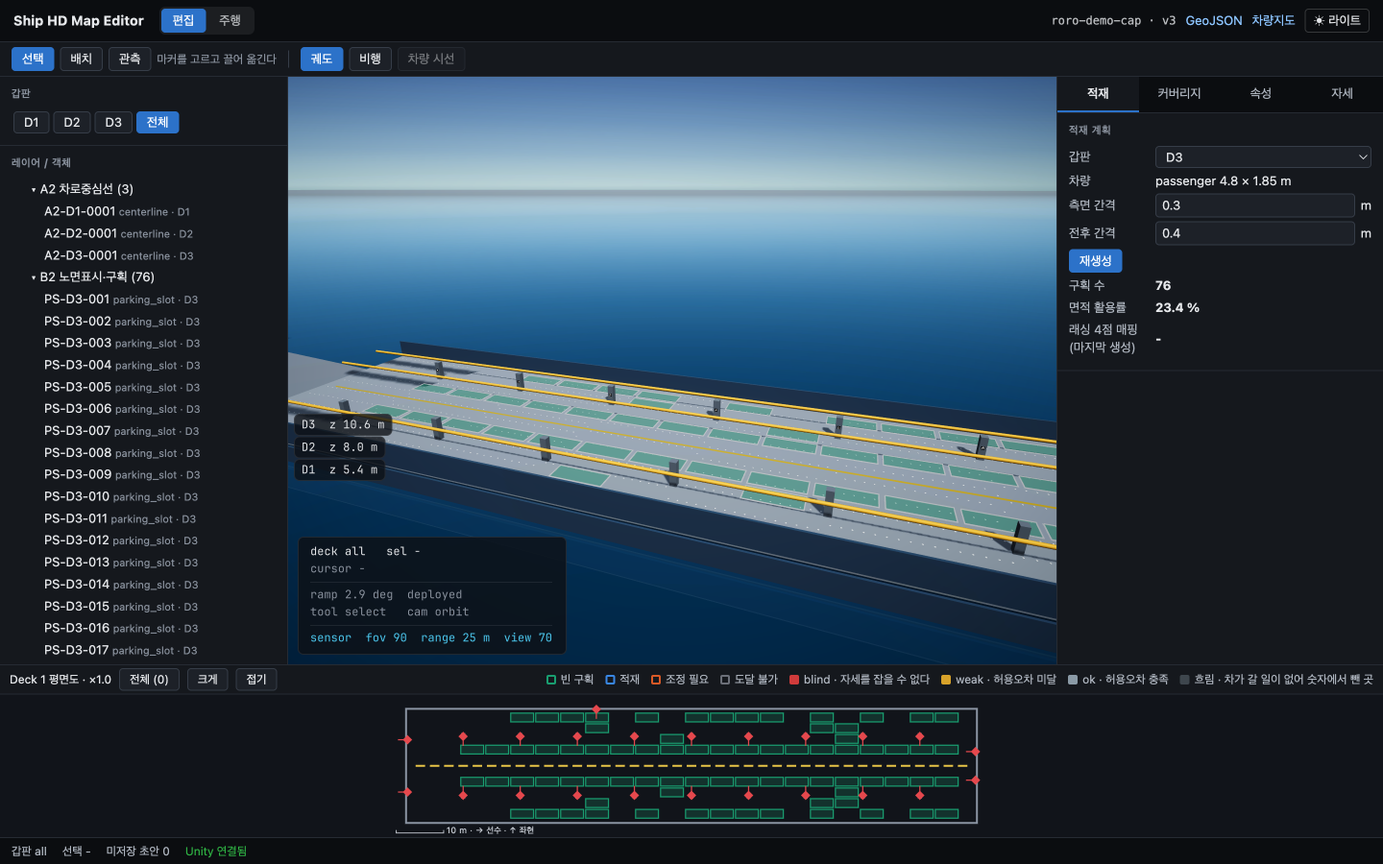
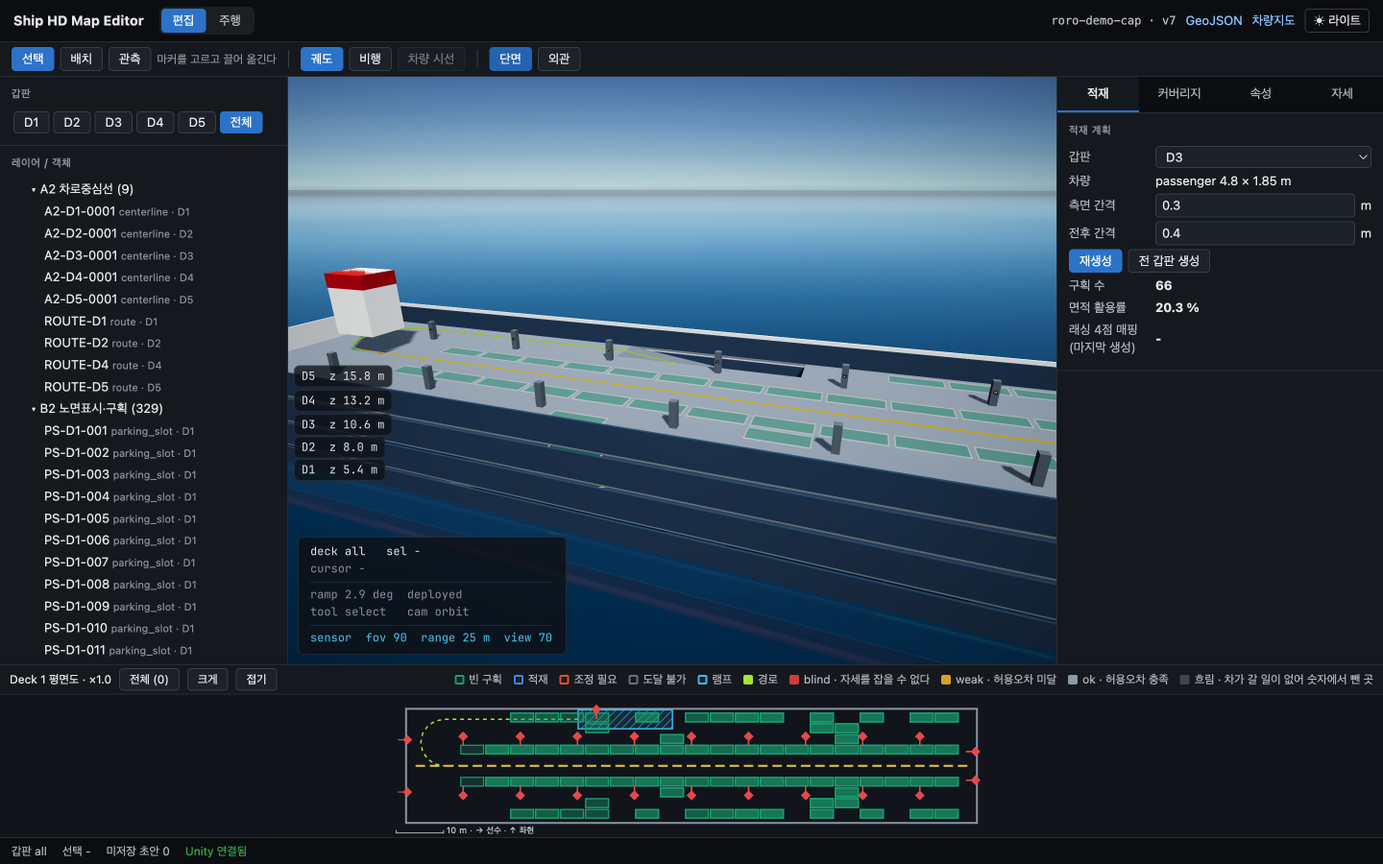
M8f: every deck in the captures and the docs, and the ramps the web shows are the scene's
- The scene announces each internal ramp's state after every Load, so the
  panel and plan view no longer show a ramp down under a parked car.
- Regenerating one deck keeps the other decks' slot statuses in the web.
- onScenario gains route and lane events; the capture pins chapter 5b and 6
  to them and generates slots on all five decks.
- README, walkthrough, API contract, glossary, design rationale and QGIS check
  updated for five decks, internal ramps, routes and 329 slots; M8 spec added.

diff --git a/web/src/store/editor.ts b/web/src/store/editor.ts
@@ -196,8 +196,9 @@ export const useEditorStore = create<EditorState>()(persist((set, get) => ({
   async generateSlots(deck, body) {
     const out = await api.generateSlots(get().datasetId, deck, body);
     const list = await api.listFeatures(get().datasetId);
-    // regenerated slots start empty; drop every status of the old ones
-    set((s) => ({ features: Object.fromEntries(list.map((f) => [f.id, f])), slotStatus: {}, slotGen: { ...s.slotGen, [deck]: { count: out.count, utilization: out.utilization, lashing_coverage: out.lashing_coverage } },
+    // regenerated slots start empty; drop the statuses of this deck's old ones -- the other decks keep theirs
+    set((s) => ({ features: Object.fromEntries(list.map((f) => [f.id, f])),
+      slotStatus: Object.fromEntries(Object.entries(s.slotStatus).filter(([id]) => s.features[id]?.deck_id !== deck)), slotGen: { ...s.slotGen, [deck]: { count: out.count, utilization: out.utilization, lashing_coverage: out.lashing_coverage } },
       selectedId: s.selectedId && !list.some((f) => f.id === s.selectedId) ? null : s.selectedId }));
     get().bumpVersion(out.version);
     return out;
@@ -332,6 +333,8 @@ export function scenarioLine(e: ScenarioEvt): string {
     case "target": return `대상 ${e.slot_id}`;
     case "leave_lane": return `차로 이탈 · ${e.detail ?? ""}`;
     case "frame_switch": return `프레임 전환 · ${e.detail ?? ""}`;
+    case "route": return `경로 · ${e.detail ?? ""}`;
+    case "lane": return `차로 진입 · ${e.detail ?? ""}`;
     case "ramp": { const r = rampEvent(e); return r ? `램프 ${r.id} ${r.state === "stowed" ? "수납" : "전개"}` : `램프 ${e.detail ?? ""}`; }
     case "finished": return `종료 (${e.detail ?? ""})`;
     default: return e.event;

diff --git a/web/src/store/editor.test.ts b/web/src/store/editor.test.ts
@@ -110,6 +110,9 @@ describe("editor store", () => {
 
   it("generateSlots refreshes features, version and KPI", async () => {
     await useEditorStore.getState().load("ds1");
+    useEditorStore.setState({ slotStatus: { "PS-D3-001": "filled", "PS-D1-001": "filled" }, features: {
+      "PS-D3-001": { id: "PS-D3-001", deck_id: "D3", layer: "B2", kind: "parking_slot", geometry: { type: "Point", coordinates: [0, 0] }, props: {} },
+      "PS-D1-001": { id: "PS-D1-001", deck_id: "D1", layer: "B2", kind: "parking_slot", geometry: { type: "Point", coordinates: [0, 0] }, props: {} } } });
     vi.mocked(api.listFeatures).mockResolvedValueOnce([{ id: "PS-D3-001", deck_id: "D3", layer: "B2", kind: "parking_slot", geometry: { type: "Polygon", coordinates: [[[100, 2, 10.6], [104.8, 2, 10.6], [104.8, 3.85, 10.6], [100, 3.85, 10.6], [100, 2, 10.6]]] }, props: {} }]);
     const out = await useEditorStore.getState().generateSlots("D3", { gap_lat_m: 0.3 });
     expect(api.generateSlots).toHaveBeenCalledWith("ds1", "D3", { gap_lat_m: 0.3 });
@@ -117,6 +120,7 @@ describe("editor store", () => {
     expect(useEditorStore.getState().dataset?.version).toBe(9);
     expect(useEditorStore.getState().slotGen.D3.lashing_coverage).toBe(1);
     expect(Object.keys(useEditorStore.getState().features)).toEqual(["PS-D3-001"]);
+    expect(useEditorStore.getState().slotStatus).toEqual({ "PS-D1-001": "filled" });   // only D3 was regenerated
   });
 
   /// 완료 기준 1. 검증할 때마다 슬라이더를 다시 맞추던 것이 이 마일스톤에서 없어진다.

diff --git a/web/src/api/types.ts b/web/src/api/types.ts
@@ -16,7 +16,7 @@ export type SlotStatus = "empty" | "filled" | "needs_adjust" | "unreachable";
 /** Unity -> React: parking judgement (load) or an emptied slot (unload: status "empty", no errors). */
 export type SlotFilledEvt = { slot_id: string; status: SlotStatus; err_lat?: number; err_lon?: number; err_heading?: number };
 /** `ramp` (M8): an internal ramp changed state; detail is "<ramp id> deployed|stowed". */
-export type ScenarioEvt = { event: "start" | "target" | "leave_lane" | "frame_switch" | "ramp" | "finished"; mode?: "load" | "unload"; slot_id?: string; detail?: string };
+export type ScenarioEvt = { event: "start" | "target" | "leave_lane" | "frame_switch" | "route" | "lane" | "ramp" | "finished"; mode?: "load" | "unload"; slot_id?: string; detail?: string };
 /** M8: a hoistable ramp between two decks. hinge = its upper end, toe = its lower end (each two points across its width). */
 export type InnerRamp = { id: string; lower_deck: string; upper_deck: string; hinge: number[][]; toe: number[][] };
 /** M8: from the stern-ramp deck's entrance to deck_id's lane start, over the listed internal ramps. */

diff --git a/unity/Assets/ShipHdMap/Runtime/Bridge/MapRuntime.cs b/unity/Assets/ShipHdMap/Runtime/Bridge/MapRuntime.cs
@@ -209,13 +209,13 @@ namespace ShipHdMap
         }
 
         /// After a Load: every internal ramp down, except one with a car parked on its near-deck ground -- that ramp can
-        /// only be up (the car is standing on it).
+        /// only be up (the car is standing on it). Each state is announced: the web's panel and plan view mirror them.
         void ResetRampStates()
         {
             _rampState.Clear();
             var slots = CurrentMap?.parking_slots ?? new List<ParkingSlot>();
             foreach (var r in RampPlanner.Internal(CurrentMap))
-                SetRamp(r.id, RampPlanner.CanDeploy(CurrentMap, r, slots) ? RampPlanner.Deployed : RampPlanner.Stowed, emit: false);
+                SetRamp(r.id, RampPlanner.CanDeploy(CurrentMap, r, slots) ? RampPlanner.Deployed : RampPlanner.Stowed, emit: true);
         }
 
         void SetRamp(string id, string state, bool emit)
@@ -698,6 +698,7 @@ namespace ShipHdMap
                     Vehicle.StartLane(_targetLane);
                     Belief.Reset(); _lastS = Vehicle.s;
                     ScenarioPhase = Phase.OnLane;
+                    Send(BridgeMessages.OnScenario, MapJson.Serialize(new ScenarioEvt { evt = "lane", slot_id = _target.id, detail = _targetDeck.id }));
                     break;
                 case Phase.OnLane when Vehicle.s >= _exitS || Vehicle.AtEnd:
                 {
@@ -776,6 +777,7 @@ namespace ShipHdMap
             Vehicle.StartPath(path, _targetLane != null && _targetLane.speed_limit_kmh > 0 ? _targetLane.speed_limit_kmh / 3.6 : ScenarioPlanner.ParkSpeedMps);
             Belief.Reset(); _lastS = Vehicle.s;
             ScenarioPhase = phase;
+            Send(BridgeMessages.OnScenario, MapJson.Serialize(new ScenarioEvt { evt = "route", slot_id = _target?.id, detail = _targetRoute?.id + (phase == Phase.ReturnRoute ? " back" : "") }));
         }
 
         static LandmarkRef RefOf(Landmark lm) => new LandmarkRef { id = lm.id, mx = lm.position[0], my = lm.position[1], phiRad = Math.Atan2(lm.normal[1], lm.normal[0]) };

diff --git a/unity/Assets/ShipHdMap/Tests/EditMode/RampScenarioTests.cs b/unity/Assets/ShipHdMap/Tests/EditMode/RampScenarioTests.cs
@@ -95,6 +95,9 @@ namespace ShipHdMap.Tests
             Assert.That(phases, Is.SupersetOf(new[] { MapRuntime.Phase.OnQuay, MapRuntime.Phase.OnRamp, MapRuntime.Phase.OnRoute, MapRuntime.Phase.OnLane, MapRuntime.Phase.Parking }));
             Assert.That(phases.IndexOf(MapRuntime.Phase.OnRoute), Is.LessThan(phases.IndexOf(MapRuntime.Phase.OnLane)));
             Assert.That(worst, Is.LessThan(0.6f), "no teleport between the route, the lane and the approach");
+            var events = emitted.Where(e => e.name == "onScenario").Select(e => MapJson.Parse<ScenarioEvt>(e.json)).ToList();
+            int route = events.FindIndex(e => e.evt == "route" && e.detail == "ROUTE-D1"), lane = events.FindIndex(e => e.evt == "lane" && e.detail == "D1");
+            Assert.That(route, Is.GreaterThanOrEqualTo(0)); Assert.That(lane, Is.GreaterThan(route), "on the route, then on D1's lane");
             Assert.That(rt.transform.Find("Overlay/D1/PARKED-PS-D1-001"), Is.Not.Null);
         }
 
@@ -125,6 +128,8 @@ namespace ShipHdMap.Tests
             var rt = Run(m);
             // a car stands on RAMP-D3-D2's ground, so after the Load that ramp can only be up
             Assert.That(rt.RampStates["RAMP-D3-D2"], Is.EqualTo(RampPlanner.Stowed));
+            Assert.That(RampEvents(), Is.EquivalentTo(new[] { "RAMP-D3-D2 stowed", "RAMP-D2-D1 deployed", "RAMP-D3-D4 deployed", "RAMP-D4-D5 deployed" }),
+                "the Load announces every ramp, or the web keeps showing this one down under the parked car");
             rt.StartScenario("{\"mode\":\"unload\"}");
             Assert.That(rt.TargetSlotId, Is.EqualTo("PS-D3-090"), "last in, first out");
             RunUntil(rt, emitted, "onScenario", j => j.Contains("\"target\"") && j.Contains("PS-D5-001"));

diff --git a/unity/Assets/ShipHdMap/Runtime/Bridge/BridgeMessages.cs b/unity/Assets/ShipHdMap/Runtime/Bridge/BridgeMessages.cs
@@ -32,8 +32,10 @@ namespace ShipHdMap
     public class SetTimeScaleMsg { public double scale = 1; }
     /// Parking result (load) or an emptied slot (unload: status "empty", no errors — nulls are dropped from the JSON).
     public class SlotFilledEvt { public string slot_id; public string status; public double? err_lat, err_lon, err_heading; }
-    /// Scenario log line. `event`: start | target | frame_switch | leave_lane | ramp | finished.
+    /// Scenario log line. `event`: start | target | frame_switch | route | lane | leave_lane | ramp | finished.
     /// `ramp` (M8) fires whenever an internal ramp changes state; its `detail` is "<ramp id> deployed|stowed".
+    /// `route` (M8): a car starts along the route to another deck (detail: route id, "+ back" when unloading);
+    /// `lane` (M8): it joins its target deck's lane (detail: deck id) -- the handover a figure can be pinned to.
     /// `frame_switch` fires when the entrance landmark pair is seen and the vehicle leaves the Quay Frame for the
     /// Ship Frame; its `detail` carries the estimate at that instant. `finished`'s `detail` is one of
     /// no_empty_slot | no_filled_slot | ramp_blocked | no_frame_switch.

diff --git a/docs/api-contract.md b/docs/api-contract.md
@@ -15,16 +15,16 @@
 - `POST /datasets/{id}/features` `{id?, deck_id?, layer, kind, geometry, props?}` → 201 피처(id 생략 시 `{layer}-{n:0000}`)
 - `PUT /datasets/{id}/features/{fid}` 부분 갱신(보낸 필드만; `layer` 변경 불가) → 200 피처
 - `DELETE /datasets/{id}/features/{fid}` → 204 · 404 · 409(구획이 참조하는 래싱)
-- `POST /datasets/{id}/decks/{deck}/slots/generate` `{vehicle_class?, gap_lat_m?, gap_lon_m?, lashing_pitch_m?}`(기본 passenger, 0.30, 0.40, 0.75) → `{deck, count, utilization, lashing_coverage, version, slots[]}`. 해당 갑판의 기존 구획을 전부 교체합니다. 진입 경로(이탈점 → 45° 사선 → 5 m 직진)가 장애물에 막히거나 이탈점이 차로 밖으로 나가는 셀은 구획이 되지 않습니다. · 404 갑판 없음 · 400 알 수 없는 차량 등급
+- `POST /datasets/{id}/decks/{deck}/slots/generate` `{vehicle_class?, gap_lat_m?, gap_lon_m?, lashing_pitch_m?}`(기본 passenger, 0.30, 0.40, 0.75) → `{deck, count, utilization, lashing_coverage, rank, version, slots[]}`. 해당 갑판의 기존 구획을 전부 교체합니다. 진입 경로(이탈점 → 45° 사선 → 5 m 직진)가 장애물에 막히거나 이탈점이 차로 밖으로 나가는 셀은 구획이 되지 않습니다. 다른 갑판으로 가는 **경로가 이 갑판 위를 지나는 구간**과 **내부 램프의 먼 쪽 자리**(아래로 가는 램프의 착지, 위로 가는 램프가 들어가는 개구부)에도 구획을 두지 않습니다. `sequence_no`는 `rank × 1000 + 갑판 내 순번`이며, `rank`는 선미 램프 갑판에서 먼 순(같은 거리면 아래층 먼저, D3 기준 D1·D5·D2·D4·D3 = 0~4)입니다. 차량지도의 구획 순서가 곧 먼 갑판부터의 적재 순서가 됩니다. · 404 갑판 없음 · 400 알 수 없는 차량 등급
 - `PUT /datasets/{id}/slots/{sid}/status` `{status: empty|filled|needs_adjust|unreachable}` → `{id, status}`. `needs_adjust`는 주차했지만 비뚤어진 상태이고, `unreachable`은 도달하지 못한 상태입니다.
 - `POST /api/datasets/{ds}/decks/{deck}/coverage` — 갑판 격자의 달성 가능 추정 정밀도입니다. 본문 전체가 선택 사항입니다: `mode`(`load`|`unload`, 기본 `load`), `grid_m`(기본 1.0, (0,10]), `fov_deg`·`max_dist_m`·`max_view_angle_deg`·`sigma_r`·`sigma_theta`·`sigma_alpha`(기본은 Unity `LandmarkSensor`의 필드 기본값과 같은 값이고, 각도는 도입니다. **등식을 유지하는 것은 실행 중의 `SetSensor` 브리지 메시지입니다.** 웹이 이 세 값을 API와 Unity 양쪽에 같은 이름으로 보내므로, 기본값 세 벌이 어긋나 있어도 화면에서 사용하는 값은 웹이 보낸 하나뿐입니다. 첫 `Load` 전까지만 Unity의 기본값을 사용합니다), `extra_landmarks[{x,y,phi_deg}]`, `omit[id]`. 응답은 `cells[{x,y,n,sigma_xy,sigma_psi,stability,in_scope}]`입니다. `n=0`이면 σ를 생략하고, `in_scope`는 false일 때만 포함합니다. `n_cells`는 **구획 ∪ 차로 회랑** 셀 수이자 `blind_ratio`·`weak_ratio`의 분모이고, `n_drawn`은 `cells` 길이(갑판 전체)입니다. `worst`·`other_mode`를 함께 반환합니다. **읽기 전용이며 DB를 바꾸지 않습니다.**
 - `POST /api/datasets/{ds}/decks/{deck}/coverage/suggest` — 다음에 놓을 마커 위치입니다. 위 파라미터에 `budget`(기본 3, 최대 10)을 추가합니다. **`grid_m`은 무시하고 2.0으로 고정하며, 응답에 실제 사용한 값을 포함합니다.** 응답은 `before`·`after`·`suggestions[{rank,x,y,phi_deg,mounted_on,blind_after,weak_after,gain}]`입니다. 순위는 누적 방식이며, 2순위는 1순위를 놓은 상태에서 계산합니다. `gain`은 해당 순위에서 줄어든 `blind_ratio`입니다.
-- `GET /datasets/{id}/vehicle-map` → 스펙 §6 JSON, `ETag`
+- `GET /datasets/{id}/vehicle-map` → 스펙 §6 JSON, `ETag`. M8 확장: `ramps[]`의 `type`은 `stern_quarter`(부두↔선박) 또는 `internal_hoistable`(갑판↔갑판)이며, 내부 램프는 `lower_deck`·`upper_deck`·`toe`(아랫끝 두 점)를 더 가집니다. `hinge`는 내부 램프의 윗끝입니다. `routes[{id, deck_id, ramps[], path[][]}]`는 선미 램프 갑판의 입구에서 `deck_id` 차로 시작점까지의 3D 경로이며, 지나는 내부 램프를 순서대로 담습니다. **램프는 id 순으로 나오므로 선미 램프를 `ramps[0]`으로 가정하면 안 됩니다.** DB 에서 경로는 `feature` layer `A2`, kind `route`로 저장합니다.
 - `GET /datasets/{id}/export.geojson` → WGS84 FeatureCollection (`application/geo+json`)
 - `GET|PUT /datasets/{id}/pose` → pose + `trim_deg`. PUT 은 부분 갱신, `measured_at` 은 요청값으로 교체
-- `GET /datasets/{id}/ramps/{rid}` → 램프 props + `hinge`, `angle_deg`, `state(deployed|blocked)`
+- `GET /datasets/{id}/ramps/{rid}` → 램프 props + `hinge`, `angle_deg`, `state(deployed|blocked)`. 부두와의 각도 계산은 선미 램프에만 의미가 있습니다. 내부 램프의 전개/수납 상태는 씬이 소유하고 `onScenario` `ramp` 이벤트로 알립니다.
 
 ## 브리지 (React ↔ Unity, 스펙 §10)
 
-- R→U `sendMessage("Map", name, json)`: `Load`, `SetMode("edit"|"drive")`(edit 는 시나리오 중단·차량 숨김·배율 1), `SetDeck("D3"|"all")`, `Select(id)`(씬 하이라이트만; 에코 없음; 빈 문자열이면 해제), `Confirm({tempId,id})`, `Delete(id)`, `SetNoise({sigma_r,sigma_theta,sigma_alpha,sigma_gps})`, `SetPose({draft_fwd_m,draft_aft_m,heel_deg,lpp_m,ramp?:{id,angle_deg,state}})`(Map 루트 회전 + 램프 각도; 각도는 API 가 계산), `StartScenario({mode:"load"|"unload"})`(맵은 `Load` 된 것; 연속 적재/하역), `SetTimeScale({scale})`
-- U→R 이벤트(`addEventListener(name, (json) => …)`): `onSeedReady`, `onFeatureCreated{tempId,layer,x,y,z,deck,mounted_on,normal}`, `onFeatureMoved{id,x,y,z,normal,deck,mounted_on}`, `onSelected{id}`, `onLocalization{est_x,est_y,est_psi,true_x,true_y,true_psi,residual_rms,n_obs,frame}`, `onSlotFilled{slot_id,status,err_lat?,err_lon?,err_heading?}`(하역 완료는 `status:"empty"`, 오차 없음; 웹이 `PUT /slots/{sid}/status`), `onScenario{event:start|target|leave_lane|finished,mode?,slot_id?,detail?}`
+- R→U `sendMessage("Map", name, json)`: `Load`, `SetMode("edit"|"drive")`(edit 는 시나리오 중단·차량 숨김·배율 1), `SetDeck("D3"|"all")`, `Select(id)`(씬 하이라이트만; 에코 없음; 빈 문자열이면 해제), `Confirm({tempId,id})`, `Delete(id)`, `SetNoise({sigma_r,sigma_theta,sigma_alpha,sigma_gps})`, `SetPose({draft_fwd_m,draft_aft_m,heel_deg,lpp_m,ramp?:{id,angle_deg,state}})`(Map 루트 회전 + 램프 각도; 각도는 API 가 계산), `StartScenario({mode:"load"|"unload"})`(맵은 `Load` 된 것; 연속 적재/하역), `SetTimeScale({scale})`, `SetPrediction({deck_id?, grid_m, bbox, cells})`(갑판마다 한 번; 주행 차량은 목표 갑판의 약속과 비교), `SetRampState({id, state: deployed|stowed})`(주행 중이 아닐 때만; 주차된 차 위로는 내리지 않음; 응답은 실제 상태의 `ramp` 이벤트), `SetShellMode({mode: cutaway|full})`
+- U→R 이벤트(`addEventListener(name, (json) => …)`): `onSeedReady`, `onFeatureCreated{tempId,layer,x,y,z,deck,mounted_on,normal}`, `onFeatureMoved{id,x,y,z,normal,deck,mounted_on}`, `onSelected{id}`, `onLocalization{est_x,est_y,est_psi,true_x,true_y,true_psi,residual_rms,n_obs,frame}`, `onSlotFilled{slot_id,status,err_lat?,err_lon?,err_heading?}`(하역 완료는 `status:"empty"`, 오차 없음; 웹이 `PUT /slots/{sid}/status`), `onScenario{event:start|target|frame_switch|route|lane|leave_lane|ramp|finished,mode?,slot_id?,detail?}`(`route`: 다른 갑판으로 가는 경로 시작, detail 경로 id·하역이면 `back`; `lane`: 목표 갑판 차로 진입, detail 갑판 id; `ramp`: detail `"<램프 id> deployed|stowed"`, Load 직후에도 램프마다 한 번씩)

diff --git a/docs/glossary.md b/docs/glossary.md
@@ -90,6 +90,8 @@ Unity 엔진 좌표는 다릅니다(x 전방, y 위, z 우현). 변환은 `ToUni
 | `A2-0007` | 레이어 코드 | 7 번 차로중심선 |
 | `D3` | **D**eck 3 | 3 번 갑판 |
 | `RAMP-STERN` | — | 선미 램프 |
+| `RAMP-D3-D2` | — | D3 와 D2 를 잇는 내부 램프 (선미 램프 갑판에 가까운 쪽 먼저, 먼 쪽 나중) |
+| `ROUTE-D1` | — | D3 입구에서 D1 주 차로 시작점까지 가는 경로 |
 | `PARKED-*` | — | 이미 주차된 차를 나타내는 박스 |
 
 ## 6. 센서·위치 추정
@@ -154,7 +156,15 @@ Unity 엔진 좌표는 다릅니다(x 전방, y 위, z 우현). 변환은 `ToUni
 
 `utilization`(이용률)은 구획 넓이 합 ÷ 갑판 넓이입니다. `lashing_coverage`(래싱 커버리지)는 네 모서리에 모두 래싱점을 가진 구획의 비율입니다.
 
-주행 상태 기계 `Phase`는 `Idle → OnLane → Parking → Departing` 순서입니다.
+주행 상태 기계 `Phase`는 `Idle → OnLane → Parking → Departing` 순서입니다. M8 부터 다른 갑판으로 가는 차는 `OnLane` 앞에 `OnRoute`(경로 추종)를, 하역 때는 `Departing` 뒤에 `ReturnRoute`(경로 역순)를 거칩니다.
+
+**내부 램프(internal ramp)**는 갑판과 갑판을 잇는 호이스트형 램프입니다(`type` `internal_hoistable`). 힌지는 항상 위층 끝에 있습니다. **전개(deployed)**하면 아래층으로 경사지고, **수납(stowed)**하면 위층 바닥과 같은 높이의 덮개가 됩니다. 선미 램프(`stern_quarter`)는 D3 에 닿고, 내부 램프는 좌현으로 D3→D2→D1, 우현으로 D3→D4→D5 를 잇습니다.
+
+**가까운 쪽 / 먼 쪽**은 선미 램프 갑판(D3)을 기준으로 정합니다. 램프의 먼 쪽 발자국(내려가는 램프의 착지 자리, 올라가는 램프가 들어가는 개구)은 항상 주차할 수 없습니다. 가까운 쪽 발자국은 램프를 수납하면 덮개 위에 추가 구획이 생깁니다.
+
+**경로(route)**는 D3 입구에서 목표 갑판 주 차로 시작점(x 8)까지 이어지는 3D 폴리라인입니다. 차로처럼 정확히 추종하므로, 믿음 판정은 경로 위가 아니라 `OnLane`·`Parking`·`Departing` 에서만 합니다.
+
+**갑판 순위(`rank`)**는 선미 램프 갑판에서 먼 순서이고, 같은 거리면 아래층이 먼저입니다. 결과는 D1 → D5 → D2 → D4 → D3 이며, 먼 갑판부터 싣고 하역은 역순입니다.
 
 `FinalRunM = 5.0`은 Unity `ScenarioPlanner`와 API `SlotGenerator.FINAL_RUN_M`에서 **반드시 같아야 합니다.** 45° 선회가 이웃 열을 침범하지 않는 최소값이 4.75 m라 여유가 거의 없습니다.
 
@@ -170,11 +180,12 @@ Unity 엔진 좌표는 다릅니다(x 전방, y 위, z 우현). 변환은 `ToUni
 | `Landmark` | `marker{family, code}`, `position[x,y,z]`, `normal[nx,ny,nz]`, `size_m`, `mounted_on` |
 | `Lane` | `centerline`, `width_m`, `direction`, `speed_limit_kmh`, `next[]` |
 | `ParkingSlot` | `polygon`, `target_pose{x,y,heading_deg}`, `tolerance{lat_m,lon_m,heading_deg}`, `access_lane_id`, `lashing_points[]`, `sequence_no`, `status` |
-| `Ramp` | `hinge`, `length_m`, `angle_range_deg`, `connects_lane`, `transition_landmarks` |
+| `Ramp` | `type`(`stern_quarter` \| `internal_hoistable`), `hinge`, `length_m`, `angle_range_deg`, `connects_lane`, `transition_landmarks`, 내부 램프만 `lower_deck`·`upper_deck`·`toe`(아랫끝 두 점) |
+| `Route` | `id`, `deck_id`(목표 갑판), `ramps[]`(지나는 램프 순서), `path[][]`(3D 폴리라인) |
 
-`status`는 `empty | filled | needs_adjust` 세 값을 사용합니다.
+`status`는 `empty | filled | needs_adjust | unreachable` 네 값을 사용합니다. `unreachable`은 믿음이 멈춰 주차하지 못하고 돌아 나온 구획입니다.
 
-`sequence_no`는 선적 순서이자 생성 순서(선수→선미, 좌현→우현)입니다. 단순 번호가 아니라 "주차 접근로에 이미 세워진 차가 없음"을 보장하는 기능적 제약입니다.
+`sequence_no`는 선적 순서이자 생성 순서(선수→선미, 좌현→우현)입니다. 단순 번호가 아니라 "주차 접근로에 이미 세워진 차가 없음"을 보장하는 기능적 제약입니다. M8 부터는 전역 번호 `rank × 1000 + 갑판 안 순번`이라, 번호 순서가 곧 먼 갑판부터의 적재 순서입니다.
 
 ## 9. 시스템·브리지
 
@@ -195,6 +206,7 @@ Unity 엔진 좌표는 다릅니다(x 전방, y 위, z 우현). 변환은 `ToUni
 | `kmh` | km/h | 시속 |
 | `deg` / `rad` | degree / radian | 도 / 라디안 |
 | `frame_switch` | frame switch | 프레임 전환. 부두(GPS) 좌표계에서 Ship Frame 으로 갈아타는 시나리오 이벤트 |
+| `route` / `lane` / `ramp` | — | M8 시나리오 이벤트. 경로 출발 / 목표 갑판 차로 진입 / 내부 램프 전개·수납 |
 
 접미사 규칙은 **`_m` = 미터, `_deg` = 도, `Rad` = 라디안, `Mps` = m/s**입니다. 이름에 단위가 없으면 SI 기본 단위(m, 초)를 사용합니다.
 
@@ -202,7 +214,8 @@ Unity 엔진 좌표는 다릅니다(x 전방, y 위, z 우현). 변환은 `ToUni
 
 - `features` vs `drafts` — 저장된 피처 vs Unity 가 방금 찍었지만 아직 DB 에 없는 초안
 - `mode` — `"edit" | "drive"`. edit로 전환하면 시나리오가 중단되고 배율이 1로 초기화됩니다.
-- `deckFilter` — `"D3"` 또는 `"all"`
+- `deckFilter` — 갑판 id(`"D1"`~`"D5"`) 또는 `"all"`. 선택 갑판보다 위층은 3D 에서 숨깁니다.
+- `rampStates` — 내부 램프별 `deployed | stowed`. 주행 중에는 `ramp` 이벤트로 갱신됩니다.
 - `dataset.version` — 쓰기마다 서버가 올리는 낙관적 버전. 상태바에 표시됩니다.
 - `localization` — 마지막 `onLocalization` 이벤트 (`est_*`, `true_*`, `residual_rms`, `n_obs`)
 

diff --git a/docs/superpowers/specs/2026-09-28-m8-ship-model-design.md b/docs/superpowers/specs/2026-09-28-m8-ship-model-design.md
@@ -1,0 +1,70 @@
+# M8 설계 스펙 — 5개 갑판, 내부 램프, 전 갑판 주차 (2026-09-28)
+
+기본 스펙 `2026-09-15-ship-hdmap-demo-design.md` 와 M7 다음 단계. 용어는 [용어집](../../glossary.md), 근거는 [설계 근거 §7.2](../../design-rationale.md) 참조.
+
+---
+
+## 1. 범위
+
+### 1.1 목적
+
+M7 까지는 갑판 3개 중 D3 만 썼다. 선미 램프 하나가 D3 에 닿고, 코드가 `ramps[0]` 을 선미 램프로 가정했다. 구획 생성과 래싱점 내보내기도 D3 만 했다. 선체는 갑판 바닥과 벽뿐이었다.
+
+목표는 자동차운반선(PCTC)다운 모델이다. 5개 갑판, 가변 내부 램프, 모든 갑판의 주차 구획과 래싱을 갖춘다. MEP(배관)는 뺀다.
+
+### 1.2 확정 결정
+
+| 항목 | 결정 |
+| --- | --- |
+| 선미 램프 | D3(가운데)에 닿는다. 내부 램프는 좌현 D3→D2→D1, 우현 D3→D4→D5 |
+| 가변 램프 | 호이스트형, 전개·수납 두 상태 |
+| 선체 | 절차적 PCTC 외형 + 단면 보기(기본) |
+| 적재 순서 | 먼 갑판부터 D1 → D5 → D2 → D4 → D3, 하역은 역순 |
+| 선체 평면 | 120 × 24 m 유지 (기존 수치와 비교 가능) |
+| MEP | 제거 |
+
+## 2. 기하 (Ship Frame: x 선수+, y 좌현+, z 기선 위)
+
+- 갑판 `D1..D5`, z 5.4 / 8.0 / 10.6 / 13.2 / 15.8 (층고 2.6 m).
+- 내부 램프: 길이 20 m, 폭 4 m, 경사 7.47°. 선측 띠 중심 y ±9.8 (기둥 열 y ±6.5 와 겹치지 않음). 힌지는 위층 끝.
+
+| 램프 | 선측 | 윗끝(힌지) | 아랫끝 | 가까운 쪽(수납 시 구획) | 먼 쪽(항상 주차 불가) |
+| --- | --- | --- | --- | --- | --- |
+| `RAMP-D3-D2` | 좌현 | D3 x 34 | D2 x 14.17 | D3 구멍 자리 | D2 착지 자리 |
+| `RAMP-D2-D1` | 좌현 | D2 x 56 | D1 x 36.17 | D2 구멍 자리 | D1 착지 자리 |
+| `RAMP-D3-D4` | 우현 | D4 x 14.17 | D3 x 34 | D3 착지 자리 | D4 구멍 자리 |
+| `RAMP-D4-D5` | 우현 | D5 x 36.17 | D4 x 56 | D4 착지 자리 | D5 구멍 자리 |
+
+- 경로 `ROUTE-D1/D2/D4/D5`: D3 입구 (2, 0, 10.6) 에서 목표 갑판 주 차로 시작점 (8, 0, z) 까지의 3D 폴리라인. U턴 반경 4.9 m(기둥 사이, 운동학 시뮬레이션이라 허용). D3 는 경로가 없다.
+- 주 차로: D3 는 x 2→118(기존과 같음), 나머지는 x 8→118.
+- 검사(EditMode): 경로 차체 스윕이 기둥·벽과 겹치지 않는다, 경사 ≤ 8°, 경로의 `ramps` 가 실제로 지나는 램프와 같다, 입구와 차로 시작점을 잇는다.
+
+## 3. 데이터 모델 (vehicle-map v1 호환 확장)
+
+- `Ramp`: `type` `stern_quarter | internal_hoistable`, 내부 램프만 `lower_deck`, `upper_deck`, `toe`(아랫끝 두 점).
+- `VehicleMap.routes`: `{id, deck_id, ramps, path}`.
+- DB 스키마 변경 없음. 경로는 `A2` kind `route`(LineStringZ), 램프 새 필드는 `C/ramp` props.
+- 구획 `sequence_no` = 갑판 순위 × 1000 + 갑판 안 순번. 순위는 선미 램프 갑판에서 먼 순, 같으면 아래층 먼저. 갑판 안은 기존 선수 우선.
+- 구획 생성: 이 갑판 위 경로 구간을 회랑에 더하고, 먼 쪽 램프 자리를 장애물로 둔다. 가까운 쪽 자리는 허용한다.
+- 커버리지: 경로 구간을 분석 대상에 포함한다.
+
+## 4. 주행
+
+- 단계: 적재 `… → OnRoute → OnLane → Parking`, 하역 `Departing → ReturnRoute → 부두`.
+- 경로는 차로처럼 정확히 추종한다. 믿음 판정은 `OnLane`·`Parking`·`Departing` 에서만.
+- 램프 규칙(`RampPlanner`): 목표 경로의 램프는 출발 전에 전개한다(가까운 쪽 자리에 차가 없을 때만). 전개된 램프는 먼 쪽에 남은 빈 구획이 없으면 수납한다. 조건을 못 맞추는 구획은 이번 차례에 건너뛴다.
+- 예측 격자는 갑판별(`SetPrediction.deck_id`)로 보관하고 차량이 있는 갑판 것을 쓴다.
+- 브리지: `SetRampState`(편집 모드에서만), `SetShellMode(cutaway|full)`. 이벤트 `route`, `lane`, `ramp`.
+
+## 5. 표현
+
+- `HullBuilder`: 트랜섬(선미 램프 개구), 건현 3색 도장, 빌지, 선수와 구상선수, 지붕, 브리지·윙·마스트, 굴뚝. 콜라이더 없음. 양면 메시는 뒷면 정점을 따로 둔다(공유 정점이면 법선이 0 이 되어 NaN 조명).
+- 갑판 바닥은 램프 구멍을 뺀 메시 + MeshCollider. 래싱 소켓은 갑판당 결합 메시 하나. 주차 차량에 래싱 스트랩 4개.
+- 갑판 필터: 선택 갑판보다 위층과 머리 위 램프를 숨긴다.
+- 웹: 갑판 단축키 1~5, `전 갑판 생성`, 램프 패널(상태 배지·토글), 평면도의 램프 자리 빗금과 경로 구간.
+
+## 6. 결과 (재현 캡처 기준)
+
+- 픽스처: 5 갑판, 랜드마크 107, 래싱점 23,610, 시설물 90, 램프 5, 경로 4.
+- 구획: D1 66, D2 66, D3 66, D4 65, D5 66 = 329, 래싱 커버리지 100 %.
+- 알려진 한계: 내부 램프 띠 위에서는 보이는 마커가 0 개라 추정이 이전 값에 머문다. 목표 갑판 차로에서 회복한다(오차 약 0.2 m).

diff --git a/docs/qgis-check.md b/docs/qgis-check.md
@@ -2,7 +2,7 @@
 
 ![QGIS에서 확인한 갑판 윤곽·차로·주차구획](img/qgis-export-overview.png)
 
-*기하 구조를 읽기 쉽도록 점 레이어(LP·LM)는 잠시 끈 화면입니다. 선 레이어에는 중앙 차로가, 면 레이어에는 겹친 갑판 윤곽과 Deck 3 주차구획이 함께 보입니다.*
+*기하 구조를 읽기 쉽도록 점 레이어(LP·LM)는 잠시 끈 화면입니다. 선 레이어에는 중앙 차로가, 면 레이어에는 겹친 갑판 윤곽과 Deck 3 주차구획이 함께 보입니다. (M7 기준 그림입니다. M8 이후 갑판은 5개이고 모든 갑판에 구획과 경로가 있습니다.)*
 
 - 목적: API가 내보낸 WGS84 GeoJSON이 갑판 윤곽 안에 기둥·랜드마크·차로·구획을 올바른 상대 위치로 놓는지 눈으로 확인합니다.
 - 설치(macOS): `brew install --cask qgis` → `/Applications/QGIS-final-4_2_2.app`. 번들 GDAL은 `…/Contents/MacOS/ogrinfo`로 직접 실행할 수 있습니다.
@@ -10,12 +10,12 @@
   `./scripts/m2-smoke.sh`도 같은 파일을 만들지만 **픽스처를 다시 시드하므로 편집한 랜드마크와 생성한 구획이 초기 상태로 돌아갑니다.** 현재 DB를 확인하려면 curl 명령을 사용합니다.
 - 열기: `open -a /Applications/QGIS-final-4_2_2.app api/build/export.geojson`, 또는 QGIS → Layer → Add Layer → Add Vector Layer. CRS는 EPSG:4326으로 인식됩니다.
 - 확인 1: 속성 테이블(F6)에서 `layer` 값이 DECK, C, LM, LP, A2, B2로 나뉘는지 확인합니다.
-- 확인 2: `layer = 'DECK'` 필터 → 사각형 3개가 겹쳐 보이는지 확인합니다. 갑판은 120 × 24 m이지만 `heading_deg = 87.5`로 회전해 있어 **bbox는 120.9 × 29.2 m로 잡힙니다**(`120·cos2.5° + 24·sin2.5°`). 축척 막대로 긴 변을 재면 120 m입니다.
-- 확인 3: `layer = 'LM'` → 점 23개가 **전부 Deck 3** 안쪽에 있고(마커는 주행하는 갑판에만 놓았습니다), 기둥(`kind = 'pillar'`, 54개) 옆에 붙어 있는지 확인합니다. 선수 격벽 마커는 짧은 변 위에 있습니다.
-- 확인 4: `layer = 'A2'` → 갑판 중앙을 지나는 선 3개(갑판당 1개)를 확인합니다. `layer = 'B2'` → 구획 사각형 76개가 **전부 Deck 3**에 있는지 확인합니다.
-- 확인 5: `layer = 'LP'`는 래싱 포인트 4722개로 피처의 대부분을 차지합니다. 격자가 고르게 깔렸는지만 확인하고, 느리면 레이어를 끕니다.
+- 확인 2: `layer = 'DECK'` 필터 → 사각형 5개가 겹쳐 보이는지 확인합니다. 갑판은 120 × 24 m이지만 `heading_deg = 87.5`로 회전해 있어 **bbox는 120.9 × 29.2 m로 잡힙니다**(`120·cos2.5° + 24·sin2.5°`). 축척 막대로 긴 변을 재면 120 m입니다.
+- 확인 3: `layer = 'LM'` → 점 107개(D3 23개, 나머지 갑판 21개씩)가 갑판 윤곽 안쪽에 있고, 기둥(`kind = 'pillar'`, 90개) 옆에 붙어 있는지 확인합니다. 선수 격벽 마커는 짧은 변 위에 있습니다.
+- 확인 4: `layer = 'A2'` → `kind = 'centerline'` 차로 5개(갑판당 1개)와 `kind = 'route'` 경로 4개를 확인합니다. 경로는 U턴과 내부 램프를 지나 갑판을 넘나드는 3D 선입니다. `layer = 'B2'` → 전 갑판을 생성했다면 구획 사각형 329개가 다섯 갑판에 나뉘어 있는지 확인합니다.
+- 확인 5: `layer = 'LP'`는 래싱 포인트 23,610개(갑판당 4,722개)로 피처의 대부분을 차지합니다. 격자가 고르게 깔렸는지만 확인하고, 느리면 레이어를 끕니다.
 - 확인 6: pose를 바꾸면(`PUT /api/datasets/{id}/pose`의 heading_deg) 다시 내보낸 파일에서 전체가 회전하는지 확인합니다. 선내 상대 위치는 그대로 유지됩니다.
 - 정박 좌표(ap_lat, ap_lon)는 임의값입니다. 실제 항구 위에 올려 보지 않습니다.
 - GeoJSON 좌표의 세 번째 값(z)은 타원체고가 아니라 Ship Frame z(기준선 위 높이, m)입니다.
 
-숫자는 `docs/fixtures/vehicle-map.sample.json` 시드에 M4 구획 자동생성(Deck 3)과 M5a 선수 격벽 마커까지 반영한 상태를 기준으로 합니다.
+숫자는 `docs/fixtures/vehicle-map.sample.json` 시드(M8: 5갑판·내부 램프·경로·전 갑판 래싱과 마커)에 전 갑판 구획 자동생성을 반영한 상태를 기준으로 합니다.
